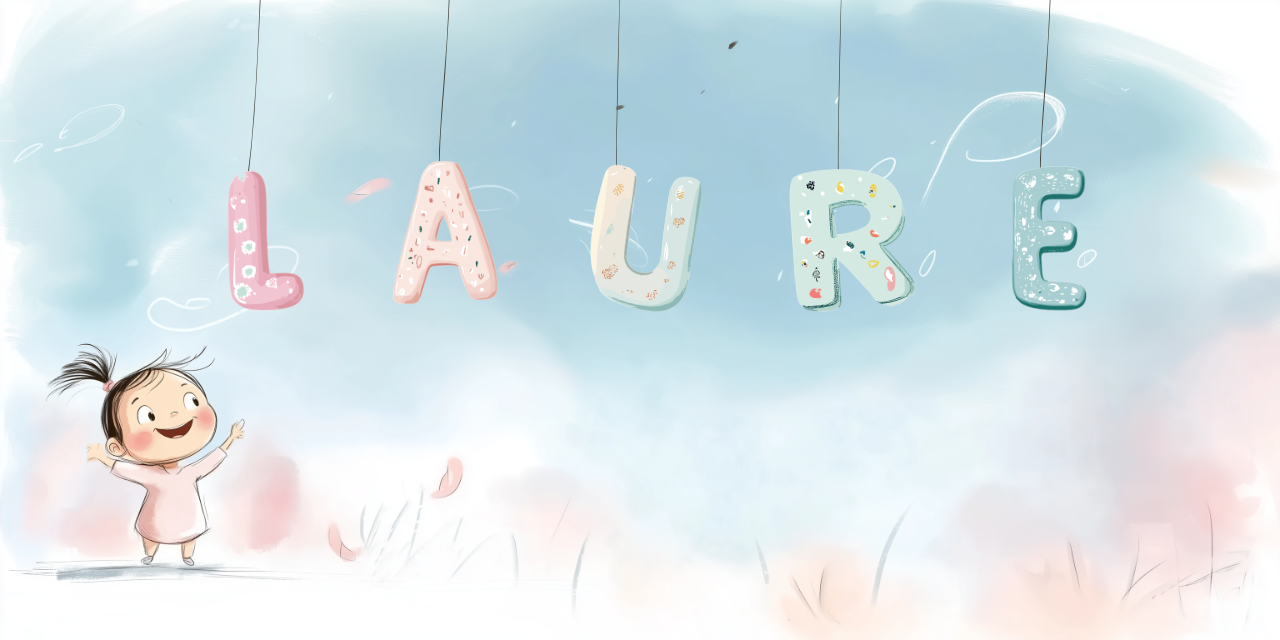
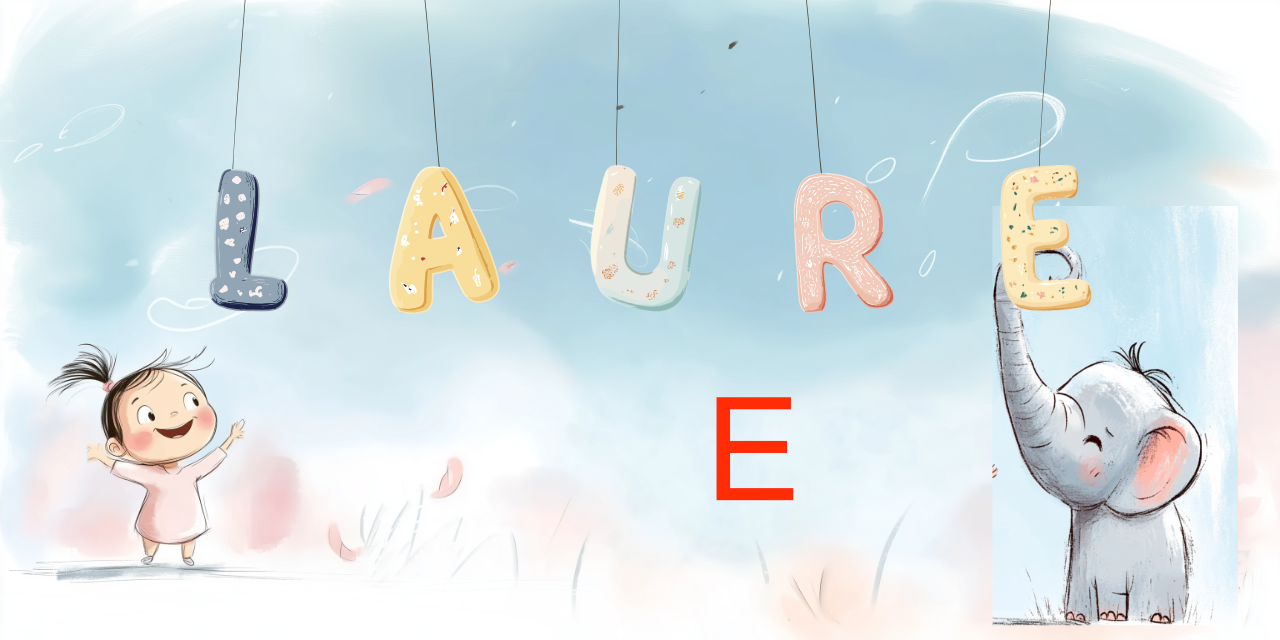
🎨 Dynamic Next-Character Backgrounds for Progressive Generation
### Features:
- Renoir now previews upcoming letters using dynamic backgrounds. 🔠
- Each step's background corresponds to the next character in the name sequence.
- Automatic fallback to a default background when specific assets are unavailable.
- Proper handling of hyphens in name sequences.

### Benefits:
- Enhances visual feedback during name progression.
- Ensures a seamless experience even when assets are missing.

🚀 Ready for testing and refinements!

diff --git a/renoir_V0_1/Renoir_V0_1.py b/renoir_V0_1/Renoir_V0_1.py
@@ -3,154 +3,100 @@ import re
 from PIL import Image
 
 def generate_progressive_images(child_name, config):
-    """
-    Generates multiple images, each adding one letter up to the second-last letter of child_name.
-    For example, 'Leah' => [L, LE, LEA].
-    Returns a list of filenames that were generated, in order.
-    """
-
     name_length = len(child_name)
     if name_length < 2:
-        # If the name has 0 or 1 letter, we won't generate anything (since we skip full name).
-        print("[Info] Name length is <2. No incremental images generated.")
         return []
 
-    # Pull config settings for Renoir
-    renoir_background_key = "renoir_background"
-    renoir_letters_normal_key = "renoir_letters_normal"
-    renoir_letters_small_key = "renoir_letters_small"
-    renoir_output_key = "renoir_output"
-
-    # The base logic for letter overlay remains the same, but we loop partial substrings.
-    # We'll define a small helper function that, given some substring, does the overlay.
     def generate_partial_image(substr, step_index):
-        """
-        Creates an overlay image for 'substr' (e.g. 'LEA'), 
-        saves it as Renoir_<child_name>_step{step_index}.png, 
-        and returns the filename.
-        """
-
-        # Decide which folder + suffix to use based on length
-        substring_len = len(substr)
-        if 2 <= substring_len <= 7:
-            letters_folder_key = renoir_letters_normal_key
-            suffix_small = ""
-        elif 8 <= substring_len <= 12:
-            letters_folder_key = renoir_letters_small_key
-            suffix_small = config.get("filename_suffix_small", "_small")
-        else:
-            letters_folder_key = renoir_letters_normal_key
-            suffix_small = ""
-
-        # Build paths from config
-        background_path = os.path.join(
+        # ========== DYNAMIC BACKGROUND ==========
+        next_char = child_name[step_index].upper() if step_index < len(child_name) else None
+        bg_dir = os.path.join(
             os.path.dirname(__file__),
-            config["paths"][renoir_background_key].replace("renoir_V0_1/", "")
+            config["paths"]["renoir_background_dir"].replace("renoir_V0_1/", "")
+        )
+        
+        bg_file = (
+            "Background_hyphen.png" if next_char == '-' else
+            f"Background_{next_char}.png" if next_char else
+            "Background.png"
+        )
+        bg_path = os.path.join(bg_dir, bg_file)
+        
+        if not os.path.exists(bg_path):
+            bg_path = os.path.join(bg_dir, "Background.png")
+
+        try:
+            background = Image.open(bg_path).convert("RGBA")
+        except Exception as e:
+            print(f"Background error: {str(e)}")
+            background = Image.new("RGBA", (1200, 800), (255,255,255,0))
+
+        # ========== CRITICAL ALIGNMENT FIXES ==========
+        substring_len = len(substr)
+        spacing = config["letter_spacing_per_length"].get(
+            str(substring_len), 
+            config["default_letter_spacing_px"]
         )
 
+        # Load letter variations
+        letters_folder_key = (
+            "renoir_letters_small" if 8 <= substring_len <= 12 
+            else "renoir_letters_normal"
+        )
         letters_folder = os.path.join(
             os.path.dirname(__file__),
             config["paths"][letters_folder_key].replace("renoir_V0_1/", "")
         )
 
+        variations_cache = {}
+        def get_variations(char):
+            base = 'hyphen' if char == '-' else char.upper()
+            suffix = "_small" if 8 <= substring_len <= 12 else ""
+            pattern = re.compile(rf"^{re.escape(base)}(\d+)?{suffix}\.png$")
+            return sorted(
+                [f for f in os.listdir(letters_folder) if pattern.match(f)],
+                key=lambda x: int(x[len(base):-4]) if x[len(base):-4].isdigit() else 0
+            )
+
+        def load_variation(char):
+            if char not in variations_cache:
+                variations_cache[char] = (get_variations(char), 0)
+            files, idx = variations_cache[char]
+            if not files:
+                return None
+            chosen = files[idx % len(files)]
+            variations_cache[char] = (files, idx + 1)
+            return Image.open(os.path.join(letters_folder, chosen)).convert("RGBA")
+
+        # ========== PROPER WIDTH CALCULATION ==========
+        images = [load_variation(c) for c in substr if load_variation(c)]
+        if not images:
+            return None
+
+        # Calculate total width with CORRECT spacing
+        total_letter_width = sum(img.width for img in images)
+        total_spacing = spacing * (len(images) - 1)
+        total_width = total_letter_width + total_spacing
+
+        # Center alignment
+        x_start = (background.width - total_width) // 2
+        current_x = x_start
+
+        # Composite letters with consistent spacing
+        for img in images:
+            background.alpha_composite(img, (current_x, 0))
+            current_x += img.width + spacing  # Match spacing used in calculation
+
+        # Save output
         output_folder = os.path.join(
             os.path.dirname(__file__),
-            config["paths"][renoir_output_key].replace("renoir_V0_1/", "")
+            config["paths"]["renoir_output"].replace("renoir_V0_1/", "")
         )
         os.makedirs(output_folder, exist_ok=True)
-
-        # Load background
-        background = Image.open(background_path).convert("RGBA")
-        bg_width, bg_height = background.size
-
-        # Convert the partial substring into a list of characters
-        letters_in_name = list(substr)
-        if not letters_in_name:
-            print("[Warning] Substring is empty, skipping.")
-            return None
-
-        # Determine letter spacing
-        spacing_dict = config.get("letter_spacing_per_length", {})
-        default_spacing = config.get("default_letter_spacing_px", 0)
-        letter_spacing = spacing_dict.get(str(substring_len), default_spacing)
-
-        # Variation logic
-        variations_cache = {}
-
-        def get_variations_for_char(char: str):
-            """Return a list of valid image paths for the given character."""
-            if char == '-':
-                base_char = 'hyphen'
-            else:
-                base_char = char.upper()
-
-            pattern_without_digits = rf"^{re.escape(base_char)}{suffix_small}\.png$"
-            pattern_with_digits   = rf"^{re.escape(base_char)}(\d+){re.escape(suffix_small)}\.png$"
-
-            valid_files = []
-            for filename in os.listdir(letters_folder):
-                if (re.match(pattern_without_digits, filename) or
-                        re.match(pattern_with_digits, filename)):
-                    valid_files.append(filename)
-
-            valid_files.sort()
-            return [os.path.join(letters_folder, f) for f in valid_files]
-
-        def load_next_variation(char: str):
-            if char not in variations_cache:
-                variations_cache[char] = (get_variations_for_char(char), 0)
-
-            files_list, index = variations_cache[char]
-            if not files_list:
-                return None
-
-            chosen_file = files_list[index]
-            new_index = (index + 1) % len(files_list)
-            variations_cache[char] = (files_list, new_index)
-            return Image.open(chosen_file).convert("RGBA")
-
-        # Collect images for each character
-        images_to_composite = []
-        for ch in letters_in_name:
-            img = load_next_variation(ch)
-            if img:
-                images_to_composite.append(img)
-            else:
-                print(f"[Warning] No images found for char '{ch}'. Skipping.")
-
-        if not images_to_composite:
-            print("[Warning] No valid images loaded for substring '{substr}', skipping generation.")
-            return None
-
-        # Calculate total width + spacing
-        widths = [img.size[0] for img in images_to_composite]
-        sum_widths = sum(widths)
-        total_spacing = (len(images_to_composite) - 1) * letter_spacing
-        total_width = sum_widths + total_spacing
-
-        # Center horizontally, top aligned
-        x_start = (bg_width - total_width) // 2
-        top_y = 0
-
-        current_x = x_start
-        for img in images_to_composite:
-            background.alpha_composite(img, dest=(current_x, top_y))
-            current_x += img.size[0] + letter_spacing
-
-        # Save the partial image
+        
         output_filename = f"Renoir_{child_name}_step{step_index}.png"
-        output_path = os.path.join(output_folder, output_filename)
-        background.save(output_path)
-        print(f"[Info] Generated partial image: {output_path}")
+        background.save(os.path.join(output_folder, output_filename))
+        
         return output_filename
 
-    # Now produce images for each partial substring up to n-1
-    partial_filenames = []
-    for i in range(1, name_length):  # i = 1..(n-1)
-        substr = child_name[:i]  # first i letters
-        step_index = i  # or i could be something else
-        filename = generate_partial_image(substr, step_index)
-        if filename:
-            partial_filenames.append(filename)
-
-    return partial_filenames
+    return [generate_partial_image(child_name[:i], i) for i in range(1, name_length) if child_name[:i]]
